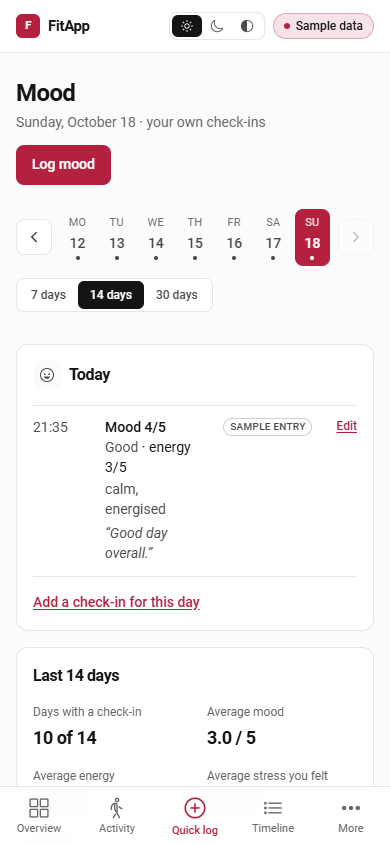
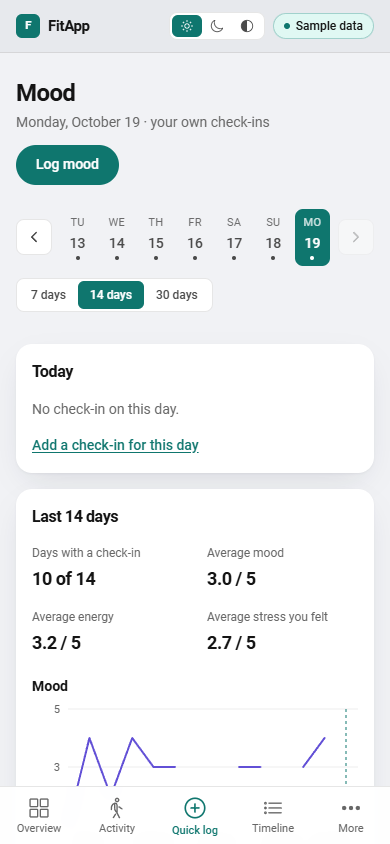
Overview without stretched cards; README refreshed
- Overview cards keep their natural height (grid items-start); only the
  calendar and journal column stretches, with the mood strip at the bottom
  of the journal.
- Graph widgets are landscape: lower charts (130/120px), Sleep shows its
  stage legend to match Steps, and four columns start only when each widget
  gets ~360px.
- README: describes the dashboard, the step-by-step quick log and the food
  list; replaces the outdated no-food-database limitation; adds credits
  (Fluent Emoji, USDA FoodData Central, Ionicons); all 17 screenshots
  re-captured.

diff --git a/frontend-fitapp/src/views/OverviewPage.vue b/frontend-fitapp/src/views/OverviewPage.vue
@@ -59,8 +59,9 @@
         </div>
         <!-- Columns follow the space beside the sidebar (container queries), so widgets never drop below ~300px. -->
         <div class="@container">
-        <div class="grid gap-4 @2xl:grid-cols-2 @4xl:grid-cols-3 @[76rem]:grid-cols-4">
-          <div class="flex flex-col gap-4 @2xl:row-span-3">
+        <!-- Cards keep their natural height (items-start); only the calendar and journal column stretches. -->
+        <div class="grid items-start gap-4 @2xl:grid-cols-2 @4xl:grid-cols-3 @[84rem]:grid-cols-4">
+          <div class="flex flex-col gap-4 self-stretch @2xl:row-span-3">
             <MonthCalendar :model-value="fitness.selectedDate" :today="fitness.today" :has-data="hasData" @update:model-value="fitness.selectDate" />
             <JournalState><TodayEntries class="flex-1" /></JournalState>
           </div>
@@ -80,7 +81,7 @@
               :selected-key="fitness.selectedDate"
               :goal="goals.steps"
               :goal-label="`Goal ${formatInt(goals.steps)}`"
-              :height="170"
+              :height="130"
               :table="false"
               value-name="Steps"
               description="Daily steps. Use arrow keys to inspect days and Enter to select one."
@@ -100,13 +101,19 @@
             <BarChart
               :bars="sleepBars(rangeDaysList)"
               :selected-key="fitness.selectedDate"
-              :height="150"
+              :height="130"
               :table="false"
               :format-tick="(h: number) => `${h}h`"
               value-name="Sleep"
               description="Sleep per night by stage. Use arrow keys to inspect nights and Enter to select one."
               @select="fitness.selectDate"
-            />
+            >
+              <template #legend>
+                <span v-for="s in [...SLEEP_STAGES].reverse()" :key="s.key" class="flex items-center gap-1.5">
+                  <span class="size-2 rounded-sm" :style="{ background: s.color }" aria-hidden="true" />{{ s.label }}
+                </span>
+              </template>
+            </BarChart>
           </WidgetCard>
 
           <WidgetCard
@@ -123,7 +130,7 @@
               :x-domain="[0, Math.max(1, rangeDaysList.length - 1)]"
               :x-ticks="dailyTicks(rangeDaysList).filter((_, i, a) => i === 0 || i === a.length - 1 || i === Math.floor(a.length / 2))"
               :mark-x="rangeDaysList.length - 1"
-              :height="150"
+              :height="120"
               :table="false"
               color="var(--heart)"
               unit="bpm"
@@ -222,6 +229,7 @@ import JournalState from '@/components/JournalState.vue'
 import WidgetCard from '@/components/WidgetCard.vue'
 import { useJournalStore } from '@/stores/journal'
 import { useFitnessData } from '@/composables/useFitnessData'
+import { SLEEP_STAGES } from '@/components/sleepStages'
 import { dailyLine, dailyTicks, metricBars, sleepBars } from '@/data/chartData'
 import { progress, trend } from '@/data/derive'
 import { formatDeviation } from '@/data/signals'

diff --git a/README.md b/README.md
@@ -2,8 +2,8 @@
 
 An open-source, watch-centred health website built for **Zepp / Amazfit** watches. FitApp brings the activity, sleep and heart-rate data recorded by a watch together with the things a watch can't measure (mood, meals, water, periods and symptoms) and explains what the combined records show, with every calculation visible.
 
-- **Watch first.** Overview, Activity (steps, distance, active energy, workouts), Sleep (duration, schedule, stages), Heart rate (latest reading, daily readings, resting trend), Stress (watch estimate, 0–100 with zones), Blood oxygen (overnight SpO₂), Skin temperature (nightly deviation from baseline) and a Watch & sync page with device, capabilities and freshness.
-- **Personal trackers.** Mood check-ins (mood, energy, emotions, self-reported stress, notes), meals with foods whose nutrients are estimated from a built-in food list (or typed in yourself), water, and an optional cycle tracker.
+- **Watch first.** A dashboard overview (today's goals as donuts, a month calendar, your journal and a widget per measurement), Activity (steps, distance, active energy, workouts), Sleep (duration, schedule, stages), Heart rate (latest reading, daily readings, resting trend), Stress (watch estimate, 0–100 with zones), Blood oxygen (overnight SpO₂), Skin temperature (nightly deviation from baseline) and a Watch & sync page with device, capabilities and freshness.
+- **Personal trackers.** A step-by-step quick log (one question per step, with picture cards) for mood check-ins (mood, energy, emotions, self-reported stress, notes), meals, water and an optional cycle tracker. Meal nutrients are estimated from a built-in food list from the food, amount and unit you pick, or typed in yourself; estimates are labelled as such.
 - **Explainable wellbeing overview.** Rule-based observations with their calculation, period, counts and links to the records, and explicit "not enough data" states. No AI service, scores, diagnoses or predictions.
 - **Zepp, ready to connect.** The backend includes a full Zepp Open Platform integration (OAuth, webhooks, FIT workouts, heart-rate pulls, backfill). Add your Zepp credentials to `.env`, register two URLs with Zepp and press **Connect Zepp account**. See [docs/zepp.md](docs/zepp.md).
 - **Works without hardware.** A complete simulated-watch demo with six months of history runs entirely in the browser. Any other provider or bridge can feed the backend through the documented ingestion API.
@@ -130,7 +130,7 @@ How to connect another provider or bridge, including field mapping: **[docs/inte
 
 ```bash
 cd backend-fitapp && php artisan test          # auth, ownership, ingestion, journal, dates, Zepp (faked)
-cd frontend-fitapp && npx vitest run            # demo data, adapters, cycle, insights, components
+cd frontend-fitapp && npx vitest run            # demo data, adapters, cycle, insights, food list, components
 cd frontend-fitapp && npm run build             # type-check (vue-tsc) and production build
 ```
 
@@ -162,9 +162,15 @@ Provider credentials (Zepp client secret, tokens) stay on the server; the websit
 - Zepp heart-rate readings use Zepp's transitional pull API. Zepp delivers SpO₂ and skin temperature, but its Open Platform offers no watch-measured stress, so Zepp accounts show no stress data. HRV, body composition and nutrition events are received but not stored.
 - Stress, SpO₂ and skin temperature are shown as recorded; FitApp does not flag or interpret them medically.
 - The ingestion contract carries steps, distance, active energy and minutes, workouts, sleep (with stages and score), resting heart rate, heart-rate readings, watch-estimated stress, SpO₂ readings and nightly skin-temperature deviation. HRV is not part of it yet.
-- Food energy and nutrients are only what the user enters; there is no food database.
+- Food nutrients come from a built-in list of about 60 common foods with typical values per 100 g (rounded from USDA FoodData Central). They are estimates: real food varies by recipe, brand and portion. Foods outside the list have only the values the user types.
 - The wellbeing overview describes co-occurrence in the user's own records. It is not medical advice, and the cycle tracker makes no predictions.
 - Single-user accounts created on the server; no password reset or self-service sign-up.
+
+## Credits
+
+- Mood faces: [Microsoft Fluent Emoji](https://github.com/microsoft/fluentui-emoji) (flat style), MIT licence, see `frontend-fitapp/src/assets/mood/LICENSE`.
+- Typical food values: rounded from [USDA FoodData Central](https://fdc.nal.usda.gov/) (public domain).
+- Icons: [Ionicons](https://ionic.io/ionicons) (MIT).
 
 ## License
 
